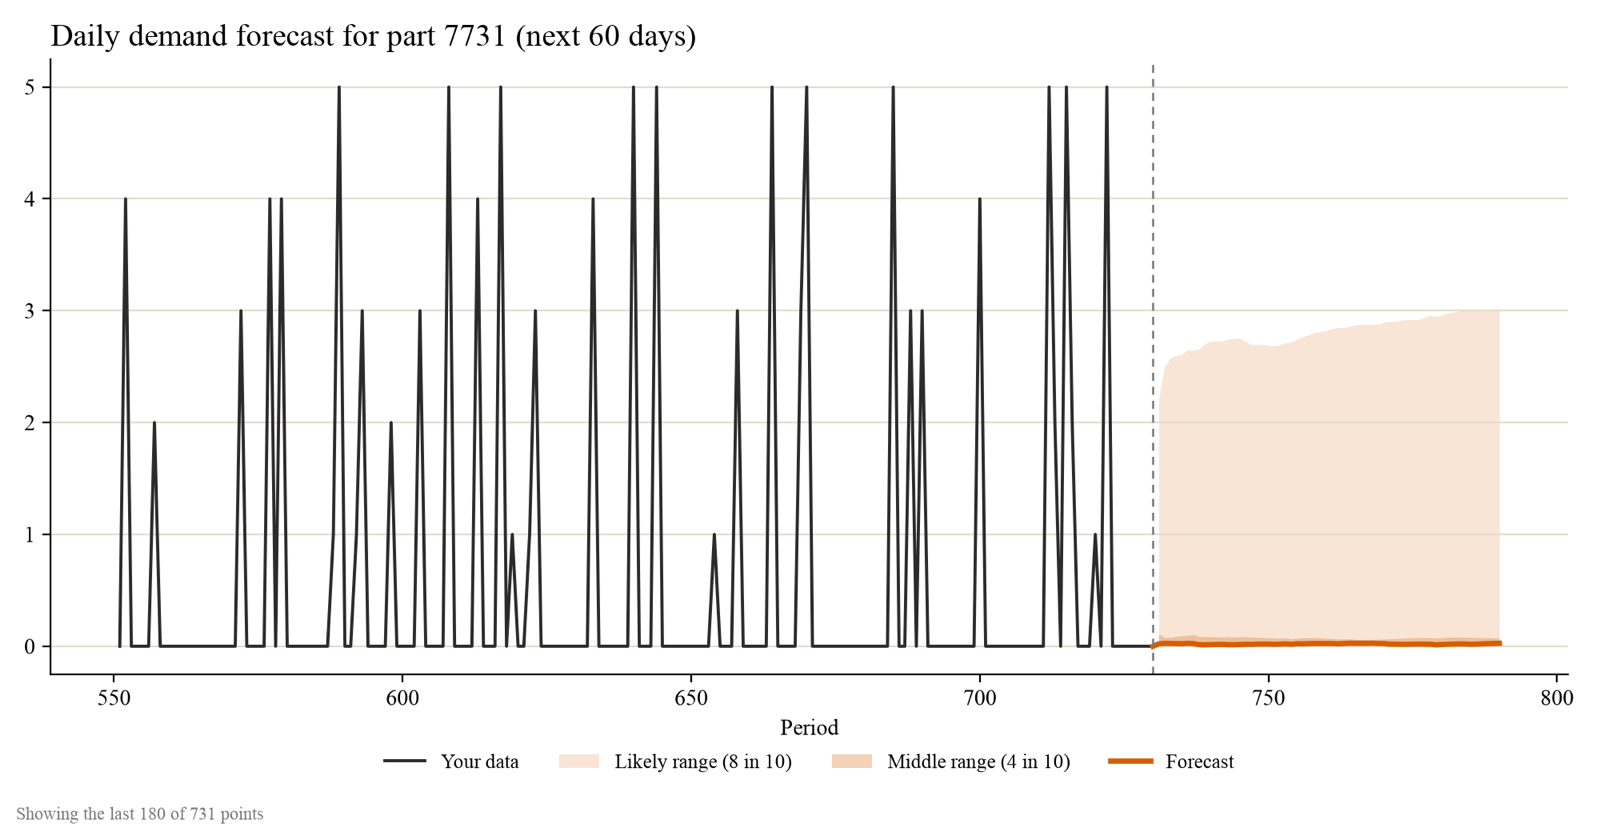
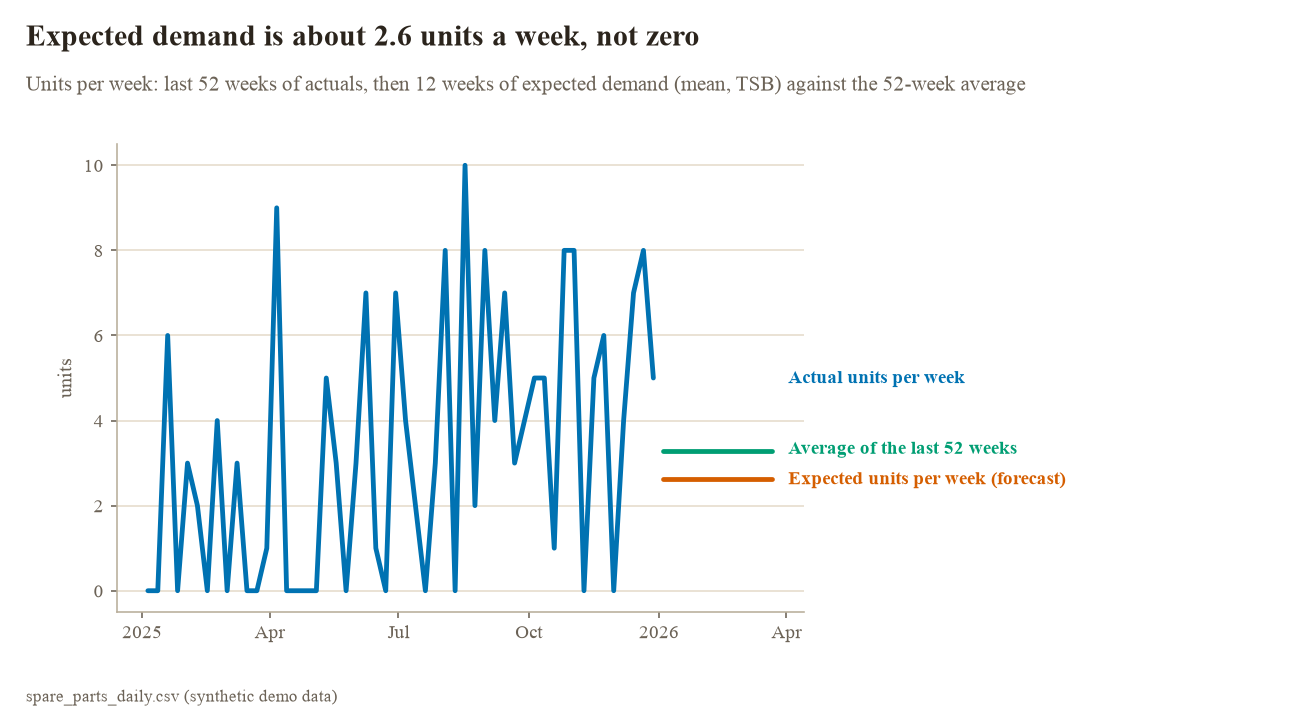
README: replace intermittent-demand chart with expected-demand view
The earlier chart plotted a daily TimesFM median (about 0.02 a day) against
a history averaging about 0.4 a day, which read as a broken forecast. The
replacement shows the last 52 weeks of actual units, the TSB expected
demand (about 2.6 units a week) for 12 weeks, and the 52-week average
(about 3.3) for reference. Synthetic demo data.

diff --git a/README.md b/README.md
@@ -92,9 +92,9 @@ Each chart shows the history, the forecast and its likely range, and marks any p
 <tr>
 <td width="50%" valign="top">
 
-**Intermittent demand.** A daily spare-part series that is mostly zero, forecast with a method built for sparse demand.
+**Intermittent demand.** Weekly units for a spare part that is often zero. The expected demand from a method built for sparse demand (TSB) is set against the 52-week average. Synthetic demo data.
 
-<img src="docs/images/chart-intermittent-forecast.png" alt="Daily demand history with mostly zero days and a 60-day forecast with its likely range">
+<img src="docs/images/chart-intermittent-forecast.png" alt="Weekly units for the last 52 weeks, then about 2.6 expected units a week for 12 weeks, against a 52-week average of about 3.3">
 
 </td>
 <td width="50%" valign="top">
